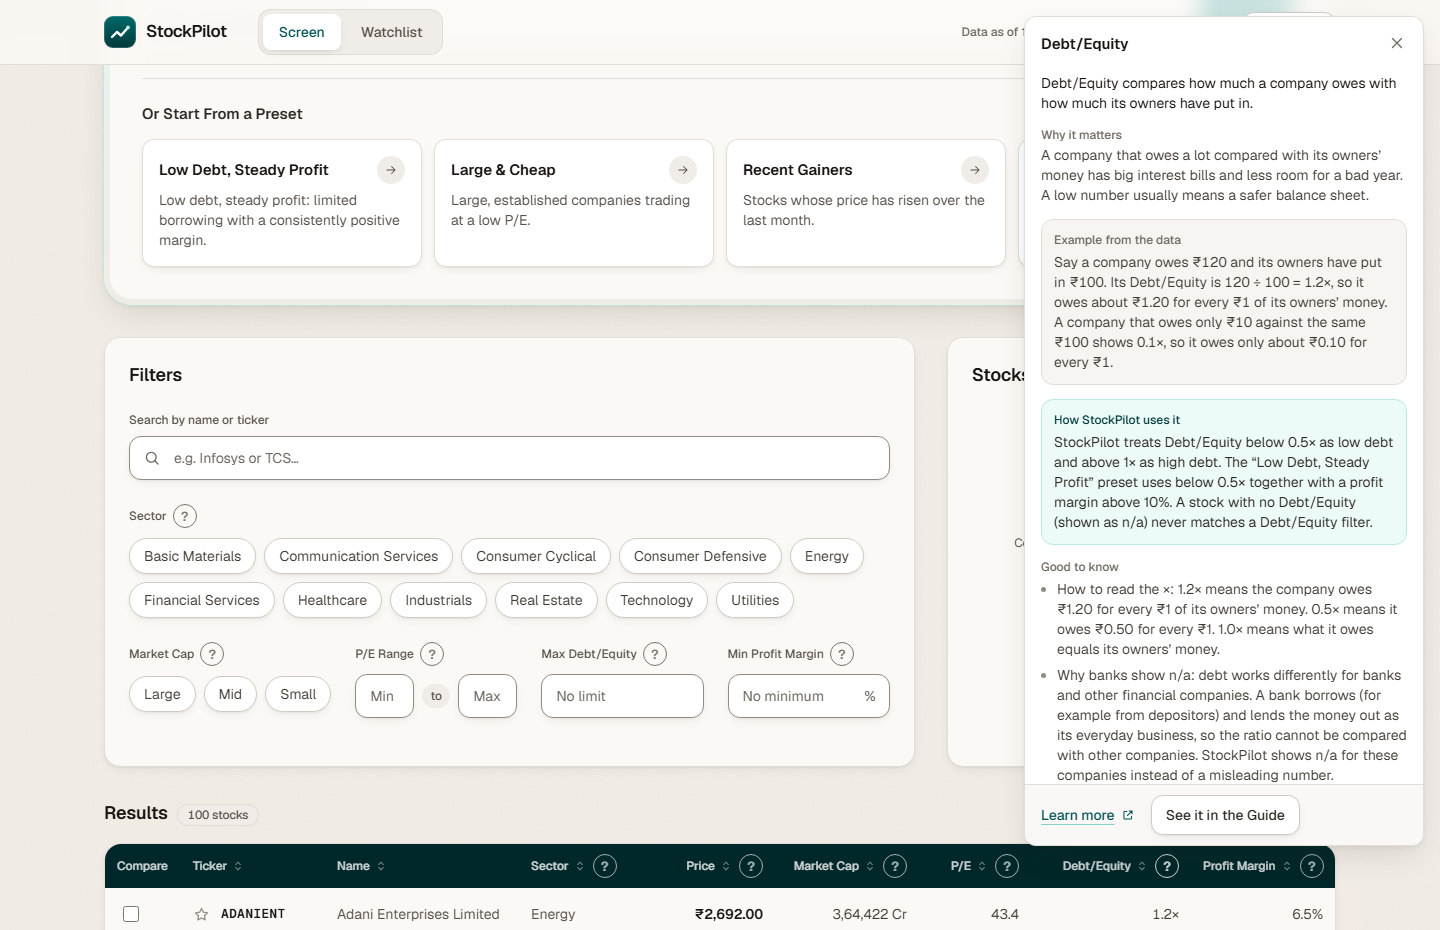
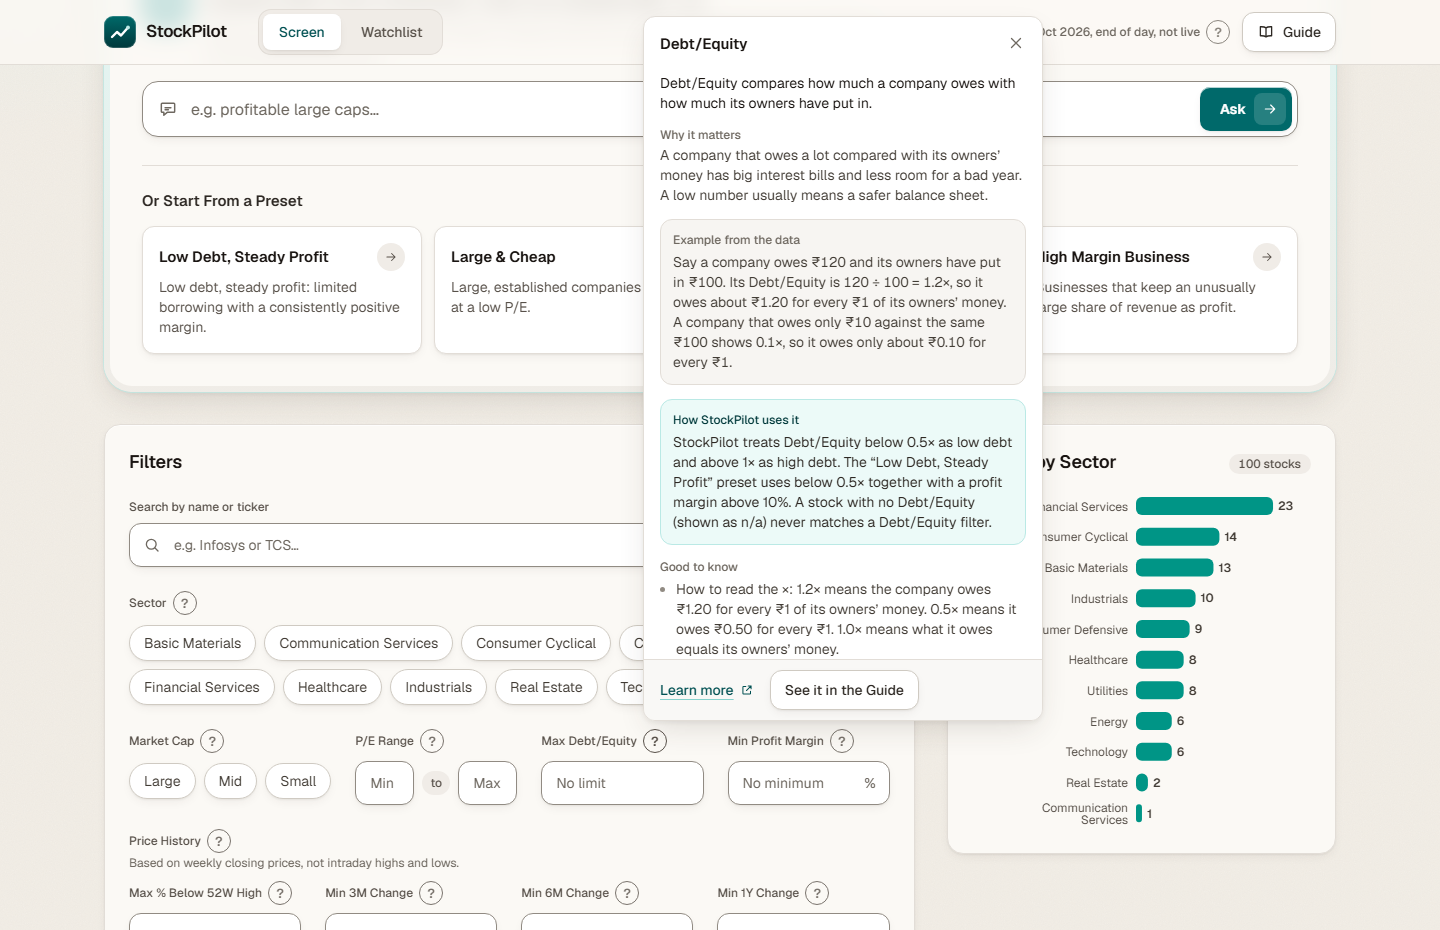
Update README and screenshots for v1.2.0

Changed region(s): [[0.0625, 0.0, 1.0, 0.9978], [0.0938, 0.0, 0.1562, 0.0312]]

diff --git a/README.md b/README.md
@@ -1,6 +1,6 @@
 # StockPilot
 
-A beginner-friendly stock screener for about 100 Indian stocks, with plain-English search, a built-in glossary and an AI helper. A final-year CSE project at Chitkara University. Educational use only, not financial advice.
+A beginner-friendly stock screener for about 100 Indian stocks, with plain-English search (company names included), a built-in glossary, 52-week and 1M/3M/6M/1Y price-history metrics, "why this matched" explanations and an AI helper. A final-year CSE project at Chitkara University. Educational use only, not financial advice.
 
 ## Live demo
 
@@ -12,24 +12,36 @@ The app runs on free hosting that sleeps after inactivity, so the first load can
 
 | | |
 | --- | --- |
-| ![Screener results table with the "Data as of 8 Oct 2026, end of day, not live" header](docs/screenshots/01-screener.png) | ![Search "low debt tech stocks" turned into two filters, shown as notes and removable chips](docs/screenshots/02-search-filters.png) |
-| **Screener.** Sortable table of all 100 stocks, with the end-of-day date in the header. | **Plain-English filters.** A search becomes visible notes and removable filter chips. |
-| ![The question "what is P/E" answered by the AI helper](docs/screenshots/03-ai-answer.png) | ![The typo "techonolgy stocks" corrected, with a "Showing results for" line](docs/screenshots/04-typo-and-help.png) |
-| **AI answer.** Questions get a short plain-text answer (this one was served from the answer cache). | **Typo tolerance.** The corrected query is shown above the filters it produced. |
-| ![A search with no matches, offering a "Dropping 'P/E below 5' gives 4 stocks" suggestion](docs/screenshots/05-no-results.png) | ![The "?" popover on Debt/Equity explaining the 1.2x notation](docs/screenshots/06-glossary-popover.png) |
-| **Zero-result help.** When nothing matches, one-click suggestions show which filter to drop. | **Glossary popover.** The "?" next to every metric explains it with a worked example. |
-| ![The Guide drawer with the three-step how-to and the list of terms](docs/screenshots/07-guide.png) | ![Stock detail drawer for Adani Enterprises with a weekly price chart](docs/screenshots/08-stock-detail.png) |
-| **Guide.** A three-step how-to plus every term explained. | **Stock detail.** Weekly closing price chart and key numbers. |
+| ![Screener home with the "Data as of 16 Oct 2026, end of day, not live" header and the search box](docs/screenshots/01-screener.png) | ![Search "low debt tech stocks" turned into two filters, shown as notes and removable chips](docs/screenshots/02-search-filters.png) |
+| **Screener.** One search box, four presets, filters and a sortable table of all 100 stocks, with the end-of-day date in the header. | **Plain-English filters.** A search becomes visible notes and removable filter chips. |
+| ![The question "what is P/E" answered in plain text, labelled "Read using: saved answer"](docs/screenshots/03-ai-answer.png) | ![The typo "techonolgy stocks" corrected, with a "Showing results for" line](docs/screenshots/04-typo-and-help.png) |
+| **AI answer.** Questions get a short plain-text answer (this one was served from the saved-answer cache, as its label says). | **Typo tolerance.** The corrected query is shown above the filters it produced. |
+| ![A search with no matches, offering a "Dropping 'P/E below 5' gives 4 stocks" suggestion](docs/screenshots/05-no-results.png) | ![The Results table with two "Why?" rows open, each listing the filters that row passed](docs/screenshots/10-why-this-matched.png) |
+| **Zero-result help.** When nothing matches, one-click suggestions show which filter to drop. | **Why this matched.** Open "Why?" on a row to see, in plain words, which filters it passed and by how much. |
+| ![The Price History table with Below 52W High, 3M, 6M and 1Y Change columns](docs/screenshots/11-price-history.png) | ![Stock detail drawer for Adani Enterprises with a weekly price chart and 52-week numbers](docs/screenshots/08-stock-detail.png) |
+| **Price history.** 52-week position and 3M / 6M / 1Y change, worked out from weekly closing prices. | **Stock detail.** Weekly chart, key numbers, 52-week range and a "What These Numbers Mean" reading. |
+| ![The "?" popover on Debt/Equity explaining the 1.2x notation](docs/screenshots/06-glossary-popover.png) | ![The Guide drawer with the three-step how-to and the list of terms](docs/screenshots/07-guide.png) |
+| **Glossary popover.** The "?" next to every metric explains it with a worked example. | **Guide.** A three-step how-to plus every term explained. |
 
 <!-- markdownlint-disable-next-line MD033 -->
 <img src="docs/screenshots/09-mobile.png" alt="StockPilot on a 390 pixel wide phone showing a search result" width="280">
 
 **Mobile.** The layout adapts to phone width; the table becomes stacked cards.
 
+## What's new in v1.2.0
+
+- **Company names in the main box.** Type "reliance", "tata motors" or "companies like Infosys" and the box searches names (a close misspelling such as "relaince" still works). "Companies like X" means X's sector only. It is the same name search as the filter below, filled in for you.
+- **52-week and 1M / 3M / 6M / 1Y metrics.** 52-week high and low, how far a price sits below its high and above its low, and 3M, 6M and 1Y change. They can be filtered and sorted, and each has a glossary entry.
+- **"Why this matched".** Every result row has a "Why?" that lists the filters it passed in plain words, with its real numbers.
+- **"What These Numbers Mean".** The stock detail drawer reads a stock's own numbers against StockPilot's fixed cut-offs, as a description and never as advice.
+- **Motion.** Rows, the price count-up, the watchlist star and the drawers now move with short, shared timings. Everything respects "reduce motion", and focus returns to where you were when a drawer closes.
+- **Smaller fixes.** Preset cards toggle on and off, "Clear all filters" also clears the search box, the Compare chart no longer collapses, Esc closes only the top-most layer, and the page no longer jumps while it loads.
+
 ## What it does
 
-- Screens about 100 stocks (NIFTY 50 + NIFTY NEXT 50) by sector, market-cap bucket, P/E, Debt/Equity, profit margin and 1-month price change. Sort, paginate, star a watchlist, and compare up to 3 stocks side by side.
-- Plain-English filters: type "cheap profitable midcaps that fell this month" and see it turned into filters you can read and edit.
+- Screens about 100 stocks (NIFTY 50 + NIFTY NEXT 50) by sector, market-cap bucket, P/E, Debt/Equity, profit margin, 1-month change and, from weekly closes, 52-week position and 3M / 6M / 1Y change. Sort, paginate, star a watchlist, and compare up to 3 stocks side by side.
+- Plain-English filters: type "cheap profitable midcaps that fell this month" and see it turned into filters you can read and edit. Company names work in the same box.
+- Every result row can say why it matched, and the detail drawer explains the stock's own numbers.
 - A beginner glossary (a "?" next to every metric) and a Guide drawer that explains each term with a worked example.
 - Typo-tolerant search ("techonolgy" still works) with an AI helper for questions such as "what is P/E".
 - Zero-result help: when no stock matches, StockPilot suggests which filter to drop and how many stocks that gives.
@@ -56,11 +68,11 @@ MongoDB Atlas  --(fallback: data/stocks.json)-->  Render web service
 ```
 
 - `server/src/data`: the only place that knows where stock data lives (`loadStocks`).
-- `server/src/engine`: pure filter, sort, search and paginate functions behind `POST /api/screen`.
-- `server/src/nl`: typo fixing, the rule parser, the LLM client and zero-result help behind `POST /api/parse`.
+- `server/src/engine`: pure filter, sort, search, paginate and 52-week / 1Y-change functions behind `POST /api/screen`.
+- `server/src/nl`: typo fixing, the rule parser, company-name matching, the LLM client and zero-result help behind `POST /api/parse`; the "why" and "what these numbers mean" text templates sit here too.
 - `web/src`: the React app; `web/src/api/client.ts` is the only file that calls `fetch`.
 
-**Stack:** TypeScript, React, Vite, Tailwind CSS, Recharts, Express, zod, MongoDB (official driver), Vitest. Hosted on Render, data refreshed by GitHub Actions.
+**Stack:** TypeScript, React, Vite, Tailwind CSS, Recharts, anime.js, Express, zod, MongoDB (official driver), Vitest. Hosted on Render, data refreshed by GitHub Actions.
 
 ## The AI helper
 
@@ -107,13 +119,17 @@ Commands, run from the repo root:
 
 ## Evaluation
 
-`eval/queries.json` holds 70 hand-written queries, each with an expected result that I wrote myself and have not independently reviewed. In `eval/results.md` the offline rule parser matches 69 of 70 expectations, which mostly shows the parser does what I traced it to do, not real-world accuracy. The AI helper scored lower in that run (34 of 70) mainly because the hosted model was slow: calls hit the 8 second timeout and fell back, which is how the app behaves in practice too.
+`eval/queries.json` holds 81 hand-written queries, each with an expected result that I wrote myself and have not independently reviewed. In `eval/results.md` the offline rule parser matches 80 of 81 expectations (99%), which mostly shows the parser does what I traced it to do, not real-world accuracy. It always answers "filter", so it gets the intent right for 66 of 81 (81%); questions, advice and off-topic queries are the ones it cannot tell apart. The AI helper section in that file is from an older 70-query run (34 of 70 matched) and was **not re-run** for v1.2.0; most of its calls hit the 8 second timeout and fell back, so it mainly measures the timeout.
 
 ## Limitations
 
-- Data is end of day, from an unofficial source that Yahoo can change or block at any time.
+- **Data is end of day.** Never real time, and refreshed on weekdays only, so a price can be a day or more behind.
+- **The source is unofficial.** Yahoo Finance is read through the unofficial `yahoo-finance2` package, which Yahoo can change or block at any time. Some fields are missing for some stocks and show "n/a" (for example Debt/Equity for banks).
+- **52-week and 3M / 6M / 1Y numbers use weekly closes**, about 54 of them, not daily prices. "52W High" is the highest weekly close, not the highest price traded, so a real intraday high or low can be missed.
+- **The keyword rules cannot always tell advice from a filter.** "should I invest in small caps right now" is read by the rules as the Small cap filter. Only the AI helper can label it advice, and when it is unavailable the rules always answer "filter".
+- **Some industry words search company names, not sectors.** "power" or "steel" finds companies with that word in their name, not every company in that industry, because Yahoo's sectors are too broad to map them safely.
 - Free hosting sleeps after inactivity, so the first visit can take about a minute.
-- The AI helper depends on a free-tier model: it can be slow, time out or run out of daily quota, and then the app uses keyword matching only.
+- The AI helper depends on a free-tier model: it can be slow, time out or run out of daily quota, and then the app uses keyword matching only. In my checks a fresh question often timed out.
 - About 100 stocks only, and the list is maintained by hand.
 - The keyword parser is a fixed dictionary, not general language understanding. Vague words such as "safe" or "growth" are deliberately unsupported because the data cannot define them.
 - Market-cap buckets are my own thresholds calibrated to this 100-stock set, not the official SEBI rule.
